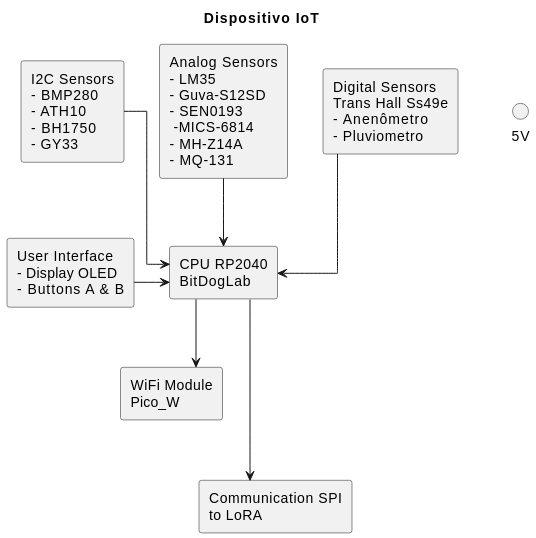
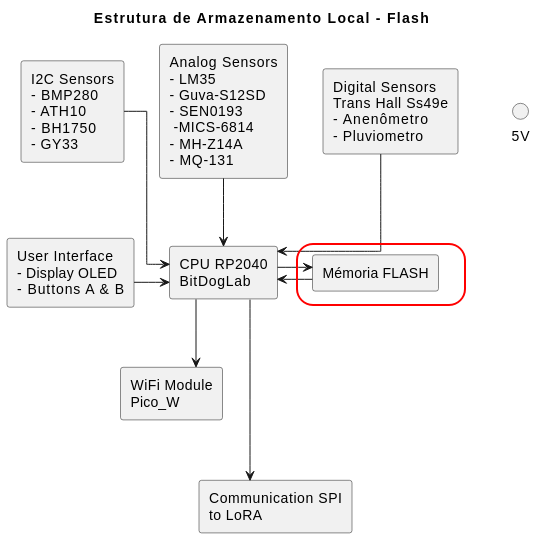
Rev

diff --git a/Etapa2/EstacaoMeteorologica_Etapa2.md b/Etapa2/EstacaoMeteorologica_Etapa2.md
@@ -179,17 +179,6 @@ A estrutura de armazenamento local é responsável por **registrar os dados ambi
         - Estados do sistema (nível de bateria, status da conexão etc.)  
         - Suporta arquivos de log contínuo com rotação por data/hora.
 
-- **Módulo RTC (Relógio de Tempo Real):**  
-    - Exemplo: DS3231, DS1307 ou DS1302.  
-    - Mantém o tempo mesmo sem alimentação, via bateria de lítio.  
-    - Permite que as leituras sejam feitas com data e hora confiáveis.  
-    - Essencial para correlação temporal e posterior análise de tendências climáticas.  
-
-- **Sistema de Buffer Temporário(opcional):**  
-    - Caso o cartão SD esteja momentaneamente indisponível (ex: retirada incorreta ou erro de escrita), os dados podem ser armazenados temporariamente na RAM ou Flash interna do Pico W.  
-    - Uma fila de backup pode manter os últimos N registros e sincronizar assim que o cartão SD for detectado novamente.  
-
-
 - **Vantagens da Arquitetura:**  
     - **Continuidade de operação**: garante que nenhuma leitura se perca em caso de falhas na comunicação (Wi-Fi ou LoRa).  
     - **Facilidade de acesso local**: o cartão SD pode ser removido e lido diretamente em qualquer computador.  
@@ -198,62 +187,22 @@ A estrutura de armazenamento local é responsável por **registrar os dados ambi
 - **Considerações Técnicas:**  
     - Recomenda-se **uso de bibliotecas otimizadas** para SD (ex: FatFS ou pico\_sd\_card).  
     - É importante prever verificação de integridade (checksums) e estratégias de **rotação de arquivos** para evitar excesso de escrita em um mesmo setor do cartão (aumentando a vida útil).  
-    - É possível adicionar uma **função de "download local"** por botão ou comando, para coletar manualmente os dados via cabo serial ou Bluetooth.  
-
 
 A estrutura de armazenamento local é especialmente útil em contextos onde a comunicação pode ser **intermitente** ou **indisponível por longos períodos**, como zonas rurais ou remotas. Ela forma o elo de segurança da arquitetura, garantindo a **persistência dos dados ambientais**.  
 
-![Figura 8: Estrutura de Monitoramento e Diagnóstico Local](assets/Estrutura7.jpg)  
-**Figura 8:** Estrutura de Monitoramento e Diagnóstico Local  
+![Figura 8: Estrutura de Monitoramento Remoto](assets/Estrutura7.jpg)  
+**Figura 8:** Estrutura de Monitoramento Remoto  
 
-Esta estrutura representa a **interface local de interação com o sistema**, permitindo ao usuário **visualizar dados diretamente na estação**, **verificar o funcionamento dos sensores** e **executar diagnósticos de campo**. Essa camada de monitoramento é crucial para facilitar a **manutenção preventiva** e a **validação do funcionamento** sem necessidade de conexão externa. Obs. blocos funcionais dessa estrutura, são:  
+Esta estrutura representa como os dados fluem para que o usuário possa ter acesso a eles via internet.
 
-- **Raspberry Pi Pico W:**  
-    - Processa os dados dos sensores e envia informações relevantes à interface local.  
-    - Controla os periféricos de saída (display, LEDs) e entrada (botões).  
-    - Responsável por detectar falhas, erros de leitura e status de funcionamento.  
+- **Container Node.JS:**  
+    - É o ponto de acesso pelo qual o dispositivo IoT enviará os dados.
 
-- **Display OLED / LCD:**  
-    - Exibe informações de forma local e direta, como:  
-        - Temperatura, umidade, pressão, velocidade do vento etc.  
-        - Status da conexão (Wi-Fi / LoRa)  
-        - Estado da bateria (carga/descarga)  
-        - Mensagens de erro (ex: “Sensor UV offline”)  
-O tipo de display pode variar conforme o consumo energético e a visibilidade desejada (ex: **OLED 128x64 I2C** é uma escolha comum por seu baixo consumo e contraste).  
+- **Container PostgreSql:**  
+    - Armazena os dados Recebidos
 
-- **Botões Locais de Controle:**  
-    - Permitem ao operador interagir com o sistema sem conexão externa. Exemplos de funções:  
-        - Alternar entre diferentes telas de dados.  
-        - Forçar uma leitura imediata dos sensores.  
-        - Iniciar testes de diagnóstico automático.  
-        - Solicitar backup manual para o cartão SD.  
-        - Geralmente conectados aos GPIOs com pull-ups internos ativados.  
-
-- **LEDs Indicadores:**  
-    - Fornecem **feedback rápido e visual** sobre o status do sistema:  
-        - Verde: sistema operacional e conectado.  
-        - Amarelo: aviso (ex: bateria fraca).  
-        - Vermelho: falha crítica (ex: sensor ausente ou corrompido).  
-Podem piscar em padrões diferentes para indicar estados diversos (boot, leitura, transmissão).
-
-- **Módulo Diagnóstico Serial / USB:**  
-    - Porta de comunicação para **depuração via cabo USB**.  
-    - Pode ser usada para:  
-        - Observar logs em tempo real.  
-        - Receber comandos de manutenção (modo shell).  
-        - Atualizar o firmware da estação.  
-
-- **Funções Estratégicas do Diagnóstico Local:**  
-    - **Reduz a dependência de rede** para validações rápidas.  
-    - **Facilita a instalação inicial** da estação no campo.  
-    - Permite **verificação periódica da saúde do sistema** por operadores não técnicos.  
-    - Garante **respostas rápidas a falhas**, aumentando a disponibilidade da estação.  
-
-
-- **Possibilidades Futuras:**  
-    - Interface via **Bluetooth ou app mobile local**.   
-    - Exportação de logs por cabo USB ou Bluetooth.  
-    - Modo “autodiagnóstico” completo com relatório na tela.  
+- **Container Grafana:**  
+	- Gera os DashBoards
 
 ---
 
